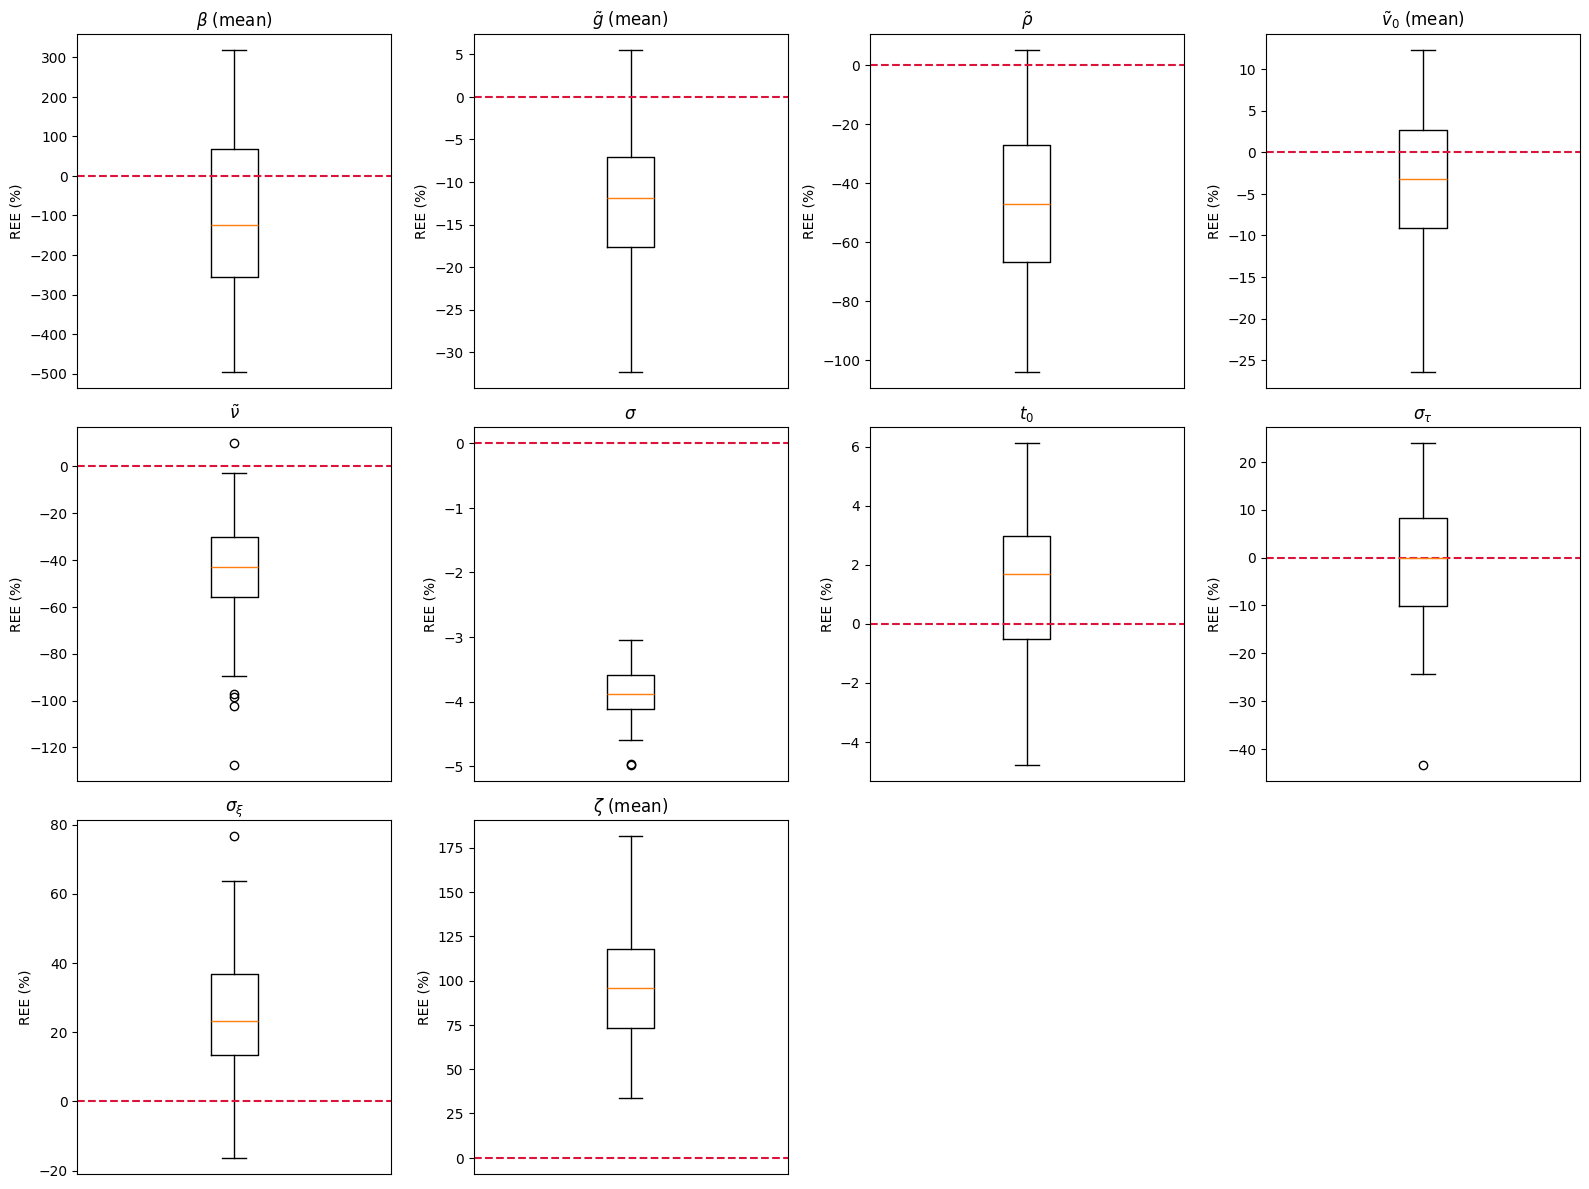
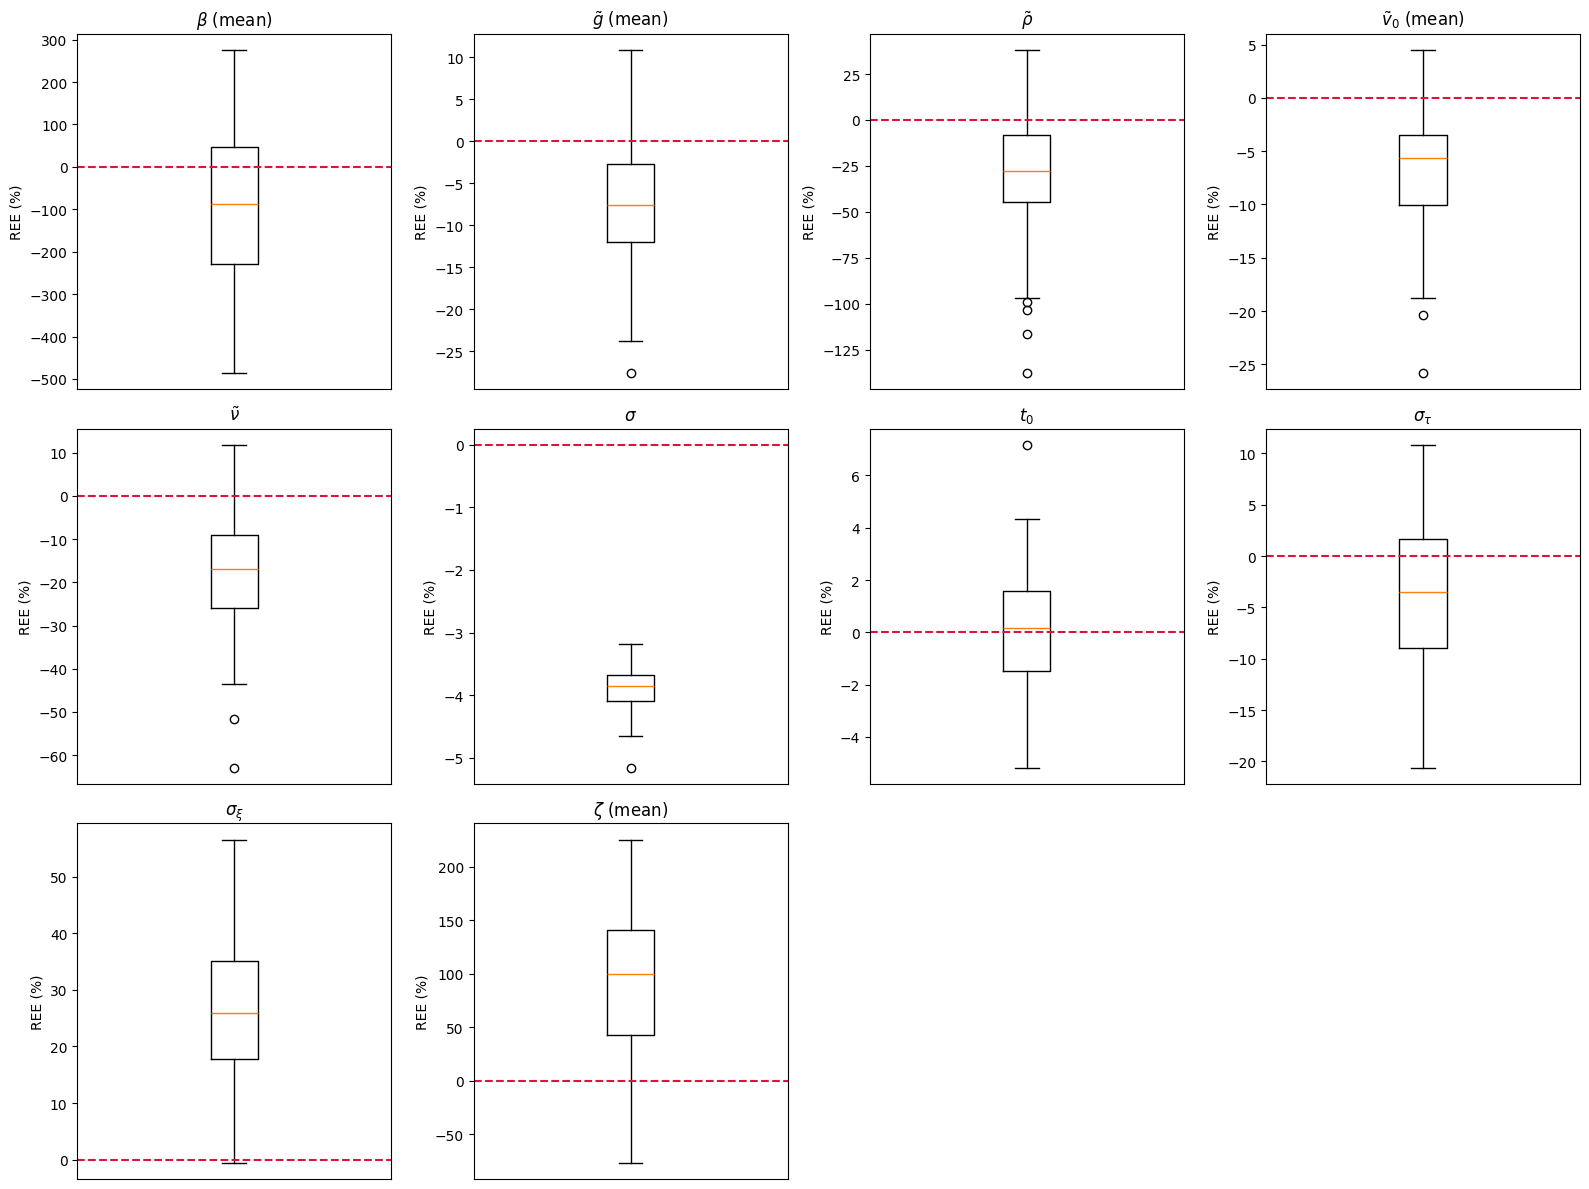
added results section to report

diff --git a/deliverables/report.tex b/deliverables/report.tex
@@ -32,9 +32,11 @@
 % Informations tuteurs écoles
 \tuteurecole{
     SDI: \textsc{Arthur Tenenhaus} \\
-    [email redacted] \\
+    [email redacted] \\
     FMR: \textsc{Vincent Mousseau} \\ 
-    [email redacted]
+    [email redacted] \\
+    MVA: \textsc{Raphaël Porcher} \\
+    [email redacted]
 } 
 
 \tuteurentreprise{
@@ -50,9 +52,13 @@
 
 % Abstract 
 \begin{abstract}
-        TODO\todo{ATTENTION INCLURE LES PARTIES CS}
+This internship was carried out within the ARAMIS team at the Paris Brain Institute (ICM) and focused on the development of simulation and statistical evaluation tools for Leaspy, an open-source Python library dedicated to the analysis of multivariate longitudinal data in neurodegenerative diseases. Leaspy relies on non-linear mixed-effects models to reconstruct disease progression trajectories, align patients on a common latent disease timeline, and estimate individual progression parameters from repeated clinical observations.
+
+The main objective of this work was to extend the simulation capabilities of Leaspy to its joint model, which simultaneously models longitudinal outcomes and time-to-event data through a shared latent disease age. While simulation tools already existed for the standard logistic model, no integrated implementation was available for the joint model. The internship therefore involved designing and implementing a simulation pipeline compatible with this framework, including event-time generation, management of censoring, support for competing events, and integration with the library's existing \texttt{estimate} and \texttt{simulate} interfaces.
+
+A second major contribution consisted in developing a validation framework based on repeated simulation and re-estimation, in order to assess the self-consistency of the implementation and the statistical recovery of both population and individual parameters. This evaluation made it possible to identify which parameters are robustly recovered and which remain difficult to estimate in moderate-sample regimes, especially in the survival and latent-source components of the model.
 \end{abstract}
-\newpage
+\newpage 
 
 % Table des matières 
 
@@ -62,8 +68,21 @@
 % Introduction 
 
 \section{Introduction} 
-TODO\todo{doit inclure les autres travaux au sein du labo (workshop, review, etc.) qui ne sont pas détaillés dans le rapport}
+\todo{ATTENTION INCLURE LES PARTIES CS}
 
+This end-of-studies internship was carried out from April to September 2026 at the Paris Brain Institute (Institut du Cerveau, ICM), located at the Pitié-Salpêtrière Hospital in Paris. The ICM is an internationally recognized research center dedicated to the understanding and treatment of neurological and psychiatric diseases. Its structure brings together clinicians, biologists, statisticians, computer scientists and engineers within a highly interdisciplinary environment, with the objective of fostering close interactions between methodological innovation and clinical applications.
+
+The internship took place within the ARAMIS team (Algorithms, Models and Methods for Images and Signals), a joint team between the ICM and INRIA. ARAMIS develops computational and statistical tools for the analysis of brain data, with a particular focus on modeling disease progression in neurological disorders such as Alzheimer's disease, Parkinson's disease, Huntington's disease or amyotrophic lateral sclerosis. More specifically, I joined the longitudinal modeling group, whose research focuses on non-linear mixed-effects models for multivariate longitudinal data. This group combines expertise in statistics, machine learning and neuroscience to design models capable of capturing the temporal dynamics and inter-individual heterogeneity that characterize disease progression.
+
+In this context, the internship was centered on Leaspy (LEArning Spatiotemporal Patterns in Python), an open-source Python library developed by ARAMIS and its collaborators for the statistical analysis of longitudinal clinical data. Leaspy aims at reconstructing disease trajectories from repeated patient measurements, aligning individuals onto a common disease timeline, and producing clinically interpretable quantities such as subject-specific disease stage or progression speed. The library already provides a mature implementation of several models and algorithms for fitting, personalization, trajectory estimation and, in some cases, simulation. However, as the methodological scope of Leaspy has expanded, especially with the recent development of a joint model linking longitudinal outcomes and survival data, the need for robust software tools for simulation and statistical evaluation has become increasingly important.
+
+Indeed, simulation plays a central role in the development of complex statistical models. Unlike real clinical datasets, simulated datasets provide access to the ground truth: the true parameter values and latent variables are known by construction. They therefore make it possible to assess whether an estimation procedure is unbiased, whether individual parameters are accurately recovered, and whether an implementation behaves as expected under controlled conditions. In the specific case of Leaspy, this need is even stronger because the models are non-linear, involve latent random effects, and rely on computationally intensive estimation procedures such as MCMC-SAEM. Extending simulation capabilities to the joint model and designing tools to evaluate its statistical behaviour are thus both methodological and practical priorities.
+
+The main objective of this internship was therefore to contribute to the development of simulation and statistical evaluation tools for Leaspy, with a particular focus on the joint model. Concretely, the work consisted in extending the simulation pipeline to settings involving longitudinal data jointly modeled with time-to-event outcomes, integrating these developments into the existing software architecture, and validating them through dedicated numerical experiments. Beyond the implementation effort itself, the internship also aimed at assessing the self-consistency of the model and estimation procedures through simulation-based validation studies.
+
+More broadly, this work lies at the intersection of statistical modeling, scientific computing and software engineering. Because Leaspy is an open-source research library intended to be used both by methodologists and by applied researchers, contributing to it requires not only implementing new methodological features, but also ensuring code reliability, reproducibility, usability and documentation quality. In that respect, the internship included several additional contributions that are not detailed in the core chapters of this report: reviewing pull requests submitted to the library, writing and improving unit and functional tests, improving parts of the documentation, and preparing and leading a workshop on longitudinal data with a particular emphasis on simulation within Leaspy. These activities were an important part of the internship, as they contributed to the overall robustness, maintainability and dissemination of the software.
+
+This report focuses primarily on the methodological and technical contributions related to simulation and evaluation for the joint model. It first presents the scientific and software context of the Leaspy library, as well as the motivations for simulation studies in this framework. It then introduces the joint model in more detail, describes the simulation algorithm implemented during the internship and the adaptations made within Leaspy, and finally reports a validation study designed to assess parameter recovery and the consistency of the overall pipeline. Through these developments, the internship aimed to strengthen both the methodological foundations and the practical usability of Leaspy for future research on longitudinal disease progression modeling.
 \newpage 
 
 % Sections 
@@ -256,7 +275,7 @@ so that the individual biomarker ordering pattern encoded in $\mathbf{s}_i$ acce
 
 \subsection{The Original Algorithm}
 
-In the original article describing the joint model~\cite{ortholand2025joint}, the simulation of synthetic patient cohorts under the joint model proceeds in six sequential steps, described below. This procedure generalizes the simulation workflow available in Leaspy for the logistic model to the joint setting.
+In the original article describing the joint model~\cite{ortholand2025joint}, the simulation of synthetic patient cohorts under the joint model proceeds in six sequential steps, described below. 
 
 \begin{enumerate}
   \item \textbf{Simulate individual random effects}. For each patient, draw the log-acceleration factor $\xi_i$ and time shift $\tau_i$ independently from their population distributions: $\xi_i \sim \mathcal{N}(0,\, \sigma_\xi^2), \quad
@@ -423,58 +442,57 @@ The \textit{Intraclass Correlation Coefficient} ICC(3,1), defined under the two-
 where $MS_B$ is the mean square between subjects and $MS_E$ is the mean square error, computed from the matrix whose two columns are the true and estimated values. The ICC(3,1) is the preferred agreement statistic here rather than the Pearson correlation, because Pearson's $r$ is invariant to linear rescaling: an estimator that correctly ranks individuals but applies a systematic affine shift would obtain a high $r$ while still being practically misleading. The ICC(3,1) penalises both lack of correlation and systematic offset, so that an ICC of 1 indicates exact pointwise agreement, an ICC near 0 indicates agreement no better than chance, and negative values reveal a systematic disagreement that is worse than ignoring the model entirely. Reporting ICC(3,1) alongside Pearson's $r$ therefore makes it possible to distinguish a correctly ordered but shifted estimator from one that achieves genuine agreement.
 
 The \textit{Bland-Altman analysis} provides a graphical complement to the ICC. For each individual $i$ and each repetition $m$, the difference $\hat{\theta}_i^{(m)} - \theta_i^{(m)}$ is plotted against the mean $(\hat{\theta}_i^{(m)} + \theta_i^{(m)})/2$, pooled across all $M$ repetitions. Three summary quantities are reported: the bias (mean difference), which reveals any constant over- or under-estimation; the limits of agreement $\pm 1.96\,\mathrm{SD}$, which delimit the interval capturing approximately 95\% of individual differences; and the dependence of the difference on the mean, which would indicate proportional bias. A narrow symmetric band centred on zero is the signature of an accurate and unbiased personalisation procedure.
-
+ 
 \subsection{Experimental Setup}
 
 The reference model $\theta^*$ is a joint model fitted on the PULSE dataset, with a single event ($L = 1$). The simulation study is carried out in the \textit{random} visit mode with the following study parameters: first-visit offset $\bar{\delta}_f = -2.0$ years and $\sigma_{\delta_f} = 1.0$ year; follow-up duration $\overline{T_f} = 8.0$ years and $\sigma_{T_f} = 2.0$ years; inter-visit interval $\bar{\delta}_v = 0.083$ years and $\sigma_{\delta_v} = 0.042$ years; and a minimum spacing between visits of $0.05$ years. These parameters are deliberately chosen to place each simulated cohort in favourable conditions: the short inter-visit interval and long follow-up produce a dense observation schedule, so that each patient contributes many data points. This abundance of information per individual reduces the number of MCMC-SAEM iterations required to reach convergence both at the fitting and at the personalisation stage. 
 
-Each synthetic cohort contains $N = TODO$ patients, and the experiment is repeated $M = TODO$ times. Each fresh model is fitted using the MCMC-SAEM algorithm with $N_{\mathrm{iter}} = TODO$ iterations, and the subsequent personalisation step runs for $N_{\mathrm{perso}} = TODO$ iterations. \todo{remplir les valeurs}
+Each synthetic cohort contains $N = 100$ patients, and the experiment is repeated $M = 100$ times. Each fresh model is fitted using the MCMC-SAEM algorithm with $N_{\mathrm{iter}} = 3000$ iterations, and the subsequent personalisation step runs for $N_{\mathrm{perso}} = 500$ iterations. Naturally, the computational cost of this procedure is substantial, as it requires fitting $M$ separate joint models from scratch. Better results could be obtained by increasing $N$ and $M$, but this would further increase the computational burden. The chosen values of $N$ and $M$ represent a compromise between statistical power and practical feasibility, while still providing a robust assessment of the model's self-consistency.
 
 \subsection{Results and Interpretation}
 
-\todo{remplacer par les figures finales}
+The results of the simulation study are summarised in Table~\ref{tab:population_recovery} for population parameters. The distributions of the Relative Estimation Error across the $M = 100$ repetitions are displayed in Figure~\ref{fig:ree_all}, while the quality of individual parameter recovery is examined in detail through the scatter plots of Figure~\ref{fig:param_comparison} and the Bland-Altman plots of Figure~\ref{fig:bland-altman}.
+
+\paragraph{Population parameter recovery.}
+The population reference time $t_0$ is among the best recovered parameters, with a relative bias of $0.072\%$ and a RRMSE of $2.082\%$. Its REE distribution in Figure~\ref{fig:ree_all} is centred almost exactly on zero with a tight interquartile range, indicating that it is well identified in this simulation setting. The observational noise standard deviation $\sigma$ is the most precisely estimated parameter in the study, with an RSE of $0.003$, a relative bias of $-3.897\%$, and a RRMSE of $3.910\%$. The near-equality of these last two quantities indicates that almost all the estimation error is attributable to a stable, slightly negative systematic offset rather than to variability across repetitions, a pattern visible in Figure~\ref{fig:ree_all} as a tight, uniformly sub-zero distribution. The time-shift standard deviation $\sigma_\tau$ and the trajectory parameters $\tilde{v}_0$ and $\tilde{g}$ are also well recovered, with relative biases in the range of $3.6\%$ to $7.4\%$ and RRMSEs below $11\%$; their REE distributions remain within moderate bounds across almost all repetitions, indicating that the main longitudinal sub-model parameters are reliably estimated under the dense visit schedules of this study.
+
+The log-acceleration standard deviation $\sigma_\xi$ is overestimated by $27\%$ on average, with a RRMSE of $29.8\%$ and an RSE of $0.10$. One possible explanation is that, at this sample size, part of the unexplained individual variability is absorbed into the between-subject variance, inflating the recovered population standard deviation. The Weibull survival parameters $\tilde{\nu}$ and $\tilde{\rho}$ are both underestimated, with relative biases of $-18.1\%$ and $-28.2\%$ respectively. Several plausible factors may contribute to the difficulty of identifying these parameters. First, survival data are intrinsically sparse: with $N = 100$ patients, a substantial fraction of whom are right-censored, the effective information available to the survival sub-model is far smaller than that available to the longitudinal one. Second, the two Weibull parameters may be partially compensatory in the likelihood, so that changes in scale can be offset to some extent by changes in shape, producing unstable joint estimates. Third, the shape parameter $\rho$ is generally harder to identify, as it controls the functional form of the hazard acceleration and requires observing a sufficiently broad spread of event times; the RSE of $\tilde{\rho}$ (0.443) being about four times that of $\tilde{\nu}$ (0.113) is consistent with this additional difficulty.
+
+Finally, the space-shift mixing coefficients $\beta$ and the source-to-survival coupling weights $\zeta$ present the largest relative errors, with RRMSEs of $212\%$ and $117\%$ respectively. These figures, however, must be interpreted with caution. The true mean of $\beta$ is $0.00858$, a value so close to zero that even a small absolute estimation error yields a very large relative one. The metric therefore overstates the practical difficulty of recovering this parameter. More fundamentally, both $\beta$ and $\zeta$ encode second-order effects that are difficult to separate from the dominant signal at moderate sample sizes: the space-shift coefficients require the simultaneous observation of consistent inter-biomarker ordering differences across many patients, while $\zeta$ requires resolving a systematic link between the latent source patterns $\mathbf{s}_i$ and the individual event hazard beyond the shared disease pace $e^{\xi_i}$. For $\zeta$, the combination of a very large relative bias and a very high RSE suggests substantial instability in this experimental regime. Overall, these results are consistent with known identifiability difficulties in high-dimensional joint models and would be expected to improve with larger sample sizes, although this was not evaluated here.
 
 \begin{table}[htbp]
 \centering
 \caption{Population parameter recovery metrics.}
+\label{tab:population_recovery}
 \begin{tabular}{lrrrrr}
+
+Parameter & $\theta^{*}$ (reference)& $\bar{\hat{\theta}}$ (estimate)& RB (\%) & RRMSE (\%) & RSE \\
 \hline
-Parameter & $\theta$ (true) & $\bar{\theta}$ (M) & RB (\%) & RRMSE (\%) & RSE \\
-\hline
-$\beta$ (mean)        &  0.00858  &  0.00005    & $-$99.439 & 252.612 & 418.0295 \\
-$\tilde{g}$ (mean)    &  0.49849  &  0.43662  & $-$12.412 &  14.664 &   0.0901 \\
-$\tilde{\rho}$        &  0.67007  &  0.34871  & $-$47.960  &  54.429 &   0.4996 \\
-$\tilde{v}_0$ (mean)  & $-$4.15871 & $-$4.32777 & $-$4.065 &   9.422 &   0.0825 \\
-$\tilde{\nu}$         & $-$1.91844 & $-$2.77983 & $-$44.900  &  52.409 &   0.1884 \\
-$\sigma$              &  0.39104  &  0.37596  & $-$3.858  &   3.882 &   0.0046 \\
-$t_0$                 & 66.07919  & 66.95525  &    1.326  &   2.932 &   0.0261 \\
-$\sigma_{\tau}$       & 10.36347  & 10.24343  & $-$1.158  &  13.119 &   0.1335 \\
-$\sigma_{\xi}$        &  1.34546  &  1.68284  &   25.075  &  31.843 &   0.1585 \\
-$\zeta$ (mean)        & $-$0.23890 & $-$0.00673 &  97.185  & 102.854 &  12.0835 \\
+$\beta$ (mean)            & 0.00858  & 0.00107  & -87.535 & 212.287 & 15.5936 \\
+$\tilde{g}$ (mean)        & 0.49849  & 0.46148  & -7.424  & 10.373  & 0.0786 \\
+$\tilde{\rho}$            & 0.67007  & 0.48141  & -28.155 & 42.351  & 0.4426 \\
+$\tilde{v}_0$ (mean)      & -4.15871 & -4.44446 & -6.871  & 8.690   & 0.0500 \\
+$\tilde{\nu}$             & -1.91844 & -2.26636 & -18.135 & 22.449  & 0.1126 \\
+$\sigma$                  & 0.39104  & 0.37580  & -3.897  & 3.910   & 0.0033 \\
+$t_0$                     & 66.07919 & 66.12698 & 0.072   & 2.082   & 0.0209 \\
+$\sigma_{\tau}$           & 10.36347 & 9.99169  & -3.587  & 7.826   & 0.0725 \\
+$\sigma_{\xi}$            & 1.34546  & 1.70900  & 27.020  & 29.809  & 0.0996 \\
+$\zeta$ (mean)            & -0.23890 & -0.01580 & 93.387  & 116.725 & 10.6431 \\
 \hline
 \end{tabular}
 \end{table}
 
 \begin{figure}[htbp]
   \centering
-  \includegraphics[width=\textwidth]{figures/REE_all.png}
+  \includegraphics[width=0.7\textwidth]{figures/REE_all.png}
   \caption{Relative error of estimation (REE) for all parameters.}
   \label{fig:ree_all}
 \end{figure}
 
+\paragraph{Individual random effect recovery.}
+Figures~\ref{fig:param_comparison} and~\ref{fig:bland-altman} together provide a detailed assessment of individual parameter recovery by the personalisation algorithm. The ICC(3,1) values, averaged across the $M = 100$ repetitions, are $0.894 \pm 0.026$ for $\xi$ and $0.903 \pm 0.050$ for $\tau$. Both values indicate strong absolute agreement between the personalised and simulated parameters, well above the conventional threshold of $0.75$ for good agreement. The slightly higher standard deviation of the ICC for $\tau$ across repetitions (0.050 versus 0.026 for $\xi$) suggests that the recovery of the time shift is somewhat more sensitive to the particular realisation of the synthetic cohort. In both cases, the Pearson correlation modestly exceeds the ICC ($0.912 \pm 0.021$ versus $0.894 \pm 0.026$ for $\xi$; $0.916 \pm 0.038$ versus $0.903 \pm 0.050$ for $\tau$), a systematic gap that is consistent across repetitions and indicates a mild distortion between true and estimated values that the ICC penalises but the Pearson correlation ignores.
 
-\begin{table}[htbp]
-\centering
-\caption{Agreement statistics for individual random effects.}
-\begin{tabular}{lcc}
-\hline
- & ICC(3,1) & Pearson $r$ \\
-\hline
-$\xi$  & $0.888 \pm 0.044$ & $0.910 \pm 0.031$ \\
-$\tau$ & $0.897 \pm 0.083$ & $0.912 \pm 0.063$ \\
-\hline
-\end{tabular}
-\end{table}
+This distortion is made explicit in Figure~\ref{fig:param_comparison}. For $\xi$, the linear regression line is slightly steeper than the identity line, indicating that the personalisation algorithm marginally amplifies the true spread: patients with strongly positive or negative log-accelerations tend to receive estimates that are somewhat more extreme than their true values. This pattern is consistent with the upward bias in $\hat{\sigma}_{\xi}$ documented above: if the fitted prior variance is overestimated, the posterior regularisation is weaker than it should be, producing less shrinkage toward zero and a correspondingly expanded distribution of estimated log-accelerations. For $\tau$, the regression line is shallower than the identity, revealing the classic shrinkage pattern toward the prior mean: patients with a very early true disease onset tend to have their onset underestimated, while patients with a very late onset tend to have it overestimated. This is the expected consequence of Bayesian estimation under a Gaussian prior centred near the population mean; when the individual longitudinal data are not sufficiently informative to dominate the prior, the posterior is pulled back toward that central value.
 
 \begin{figure}[htbp]
   \centering
@@ -483,18 +501,7 @@ $\tau$ & $0.897 \pm 0.083$ & $0.912 \pm 0.063$ \\
   \label{fig:param_comparison}
 \end{figure}
 
-\begin{table}[htbp]
-\centering
-\caption{Bland-Altman analysis of individual parameter recovery.}
-\begin{tabular}{lrrr}
-\hline
- & Bias & LoA lower & LoA upper \\
-\hline
-$\xi$  & $0.0043$ & $-1.3839$ & $1.3925$ \\
-$\tau$ & $0.6034$ & $-7.9239$ & $9.1307$ \\
-\hline
-\end{tabular}
-\end{table}
+The Bland-Altman plots in Figure~\ref{fig:bland-altman} confirm and refine these observations. For $\xi$, the bias is $-0.007$, negligible in absolute terms, and the limits of agreement are $[-1.350, +1.336]$. For $\tau$, the bias is $+0.061$ years, again negligible relative to the scale of $\sigma_\tau \approx 10$ years, and the limits of agreement span approximately $[-8.4, +8.5]$ years. For both parameters, the mean bias is therefore close to zero, indicating little overall offset at the population level. At the same time, the structure of the point clouds shows that this absence of global bias does not imply perfect agreement at all values. In particular, the Bland-Altman plot for $\tau$ displays a marked mean-dependent pattern consistent with the shrinkage already visible in Figure~\ref{fig:param_comparison}: extreme time shifts tend to be pulled back toward the centre of the distribution. The near-symmetry of the limits of agreement around zero confirms that the personalisation procedure does not introduce a large systematic offset on average, while the residual structure of the plots reveals conditional bias, especially for $\tau$.
 
 \begin{figure}[htbp]
   \centering
@@ -511,7 +518,18 @@ TODO
 \newpage
 
 \section{Conclusion}
-TODO
+
+This internship addressed a central methodological and software challenge for the Leaspy library: providing simulation and evaluation tools for complex non-linear mixed-effects models, and more specifically for the joint model linking longitudinal and survival data. In a context where real clinical datasets never provide access to the true latent disease stage or to the true individual random effects, simulation constitutes an indispensable instrument both for validating statistical procedures and for testing software implementations under controlled conditions.
+
+The main contribution of this work was the development and integration of a simulation pipeline for the joint model within the Leaspy codebase. This required extending the existing logic of the library to support the generation of event times alongside longitudinal trajectories, handling censoring constraints, adapting the \texttt{estimate} method to return survival-related quantities, and generalizing the framework to competing events. These developments made it possible to simulate synthetic cohorts in a way that is coherent with the mathematical structure of the joint model and with the design principles of the Leaspy API.
+
+A second important contribution was the implementation of a simulation-based validation strategy aimed at evaluating the self-consistency of the full pipeline. By repeatedly simulating datasets from a reference fitted model and re-estimating the parameters, the study assessed the recovery of both population parameters and personalized individual random effects. The results show that the main longitudinal parameters and the subject-level time-shift and acceleration effects are recovered with good accuracy in the considered setting. At the same time, some parameters related to survival and latent-source couplings exhibit substantially larger estimation errors, highlighting the practical difficulties of identifying second-order effects in moderately sized cohorts. These findings are informative not only for the specific implementation developed during the internship, but also more generally for the statistical use of the joint model.
+
+Beyond the work described in detail in this report, the internship also involved a broader contribution to the life of the project: reviewing pull requests, strengthening the test suite with unit and functional tests, improving parts of the documentation, and preparing and leading a workshop on longitudinal data, with a particular focus on simulation. These activities were essential to ensure that the developed features are not only methodologically relevant, but also maintainable, documented and usable by other contributors and end users.
+
+Overall, this internship provided an opportunity to work at the interface between statistics, machine learning and scientific software engineering, in a highly interdisciplinary research environment. It also illustrated a key aspect of modern methodological research: proposing a model is not sufficient; one must also provide the computational tools, validation procedures and software standards that make its use reliable and reproducible. In that respect, the work carried out during these six months contributes to making Leaspy a more robust and more complete platform for longitudinal disease progression modeling.
+
+Several perspectives naturally follow from this work. On the methodological side, future simulation studies could investigate more systematically the effect of sample size, censoring intensity, visit sparsity, or model misspecification on parameter recovery. On the software side, the simulation framework could be extended further, for instance by allowing more flexible visit-generation schemes, richer noise models, or closer alignment between continuous-time event generation and the current grid-based implementation. More broadly, the tools developed here may support future benchmarking studies, educational uses, and the generation of privacy-preserving synthetic datasets for open research. These perspectives make simulation not only a technical feature of Leaspy, but also a strategic component of its future development.
 \newpage
 
 % Bibliography 